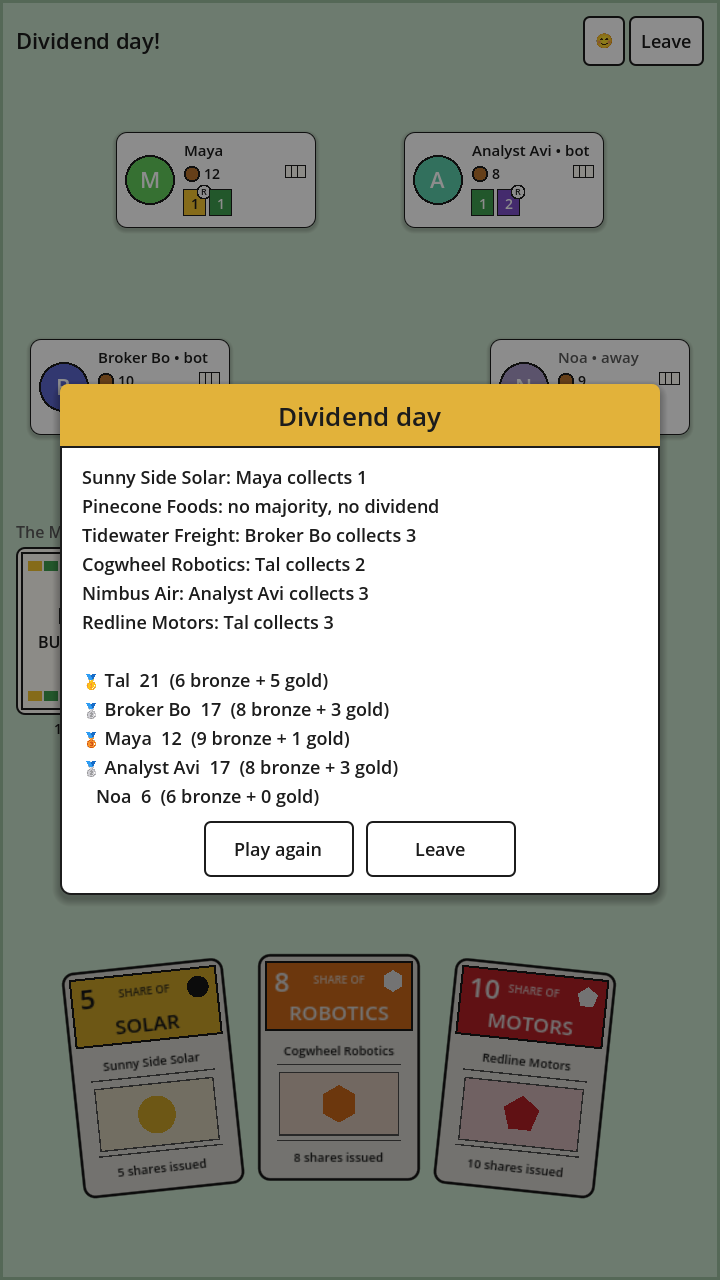
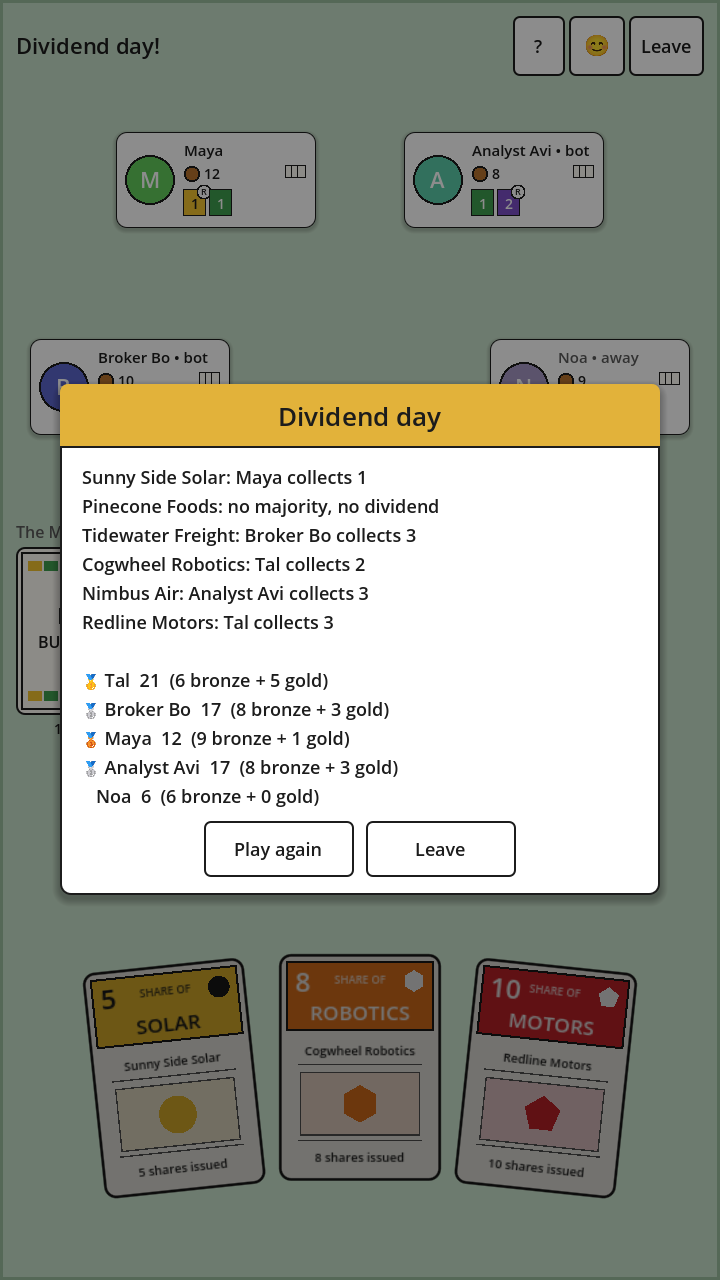
Docs: tick the cloud-doable local todo items, refresh screenshots
- TODO-local: touch targets, the 4-card fan, emoji font, seat tap target,
  lasting blocks, tutorial v2 and the timer glow are ticked with a note
  on what was done and what still wants a phone. Open items now point at
  the new code (AppInfo for the support email and privacy URL, sfx.gd for
  the sound set, the https server field, the VIBRATE permission), and the
  tutorial timing item records the e2e measurement and the right file for
  TUTORIAL_BOT_THINK_MS (state.ts).
- README status gains the Phase 2 polish paragraph.
- Screenshots re-rendered with system fonts disabled, so the emoji come
  from the bundled font; help.png added.

Claude-Session: https://claude.ai/code/session_01Qi2MPWHnrucEJc2pu61udN

Changed region(s): [[0.0917, 0.75, 0.8861, 0.9375], [0.7028, 0.0, 0.9778, 0.0625], [0.0306, 0.0312, 0.2139, 0.0625]]

diff --git a/docs/TODO-local.md b/docs/TODO-local.md
@@ -14,17 +14,17 @@ Tick items off as they are done.
 
 ## B. Play it on a phone (the Phase 1 goal)
 
-- [ ] Android: install Android SDK + export templates in Godot, create an Android export preset (portrait, min SDK 24), enable USB debugging, "Remote Deploy" from the editor to a phone. Point the host field at your computer's LAN IP (not 127.0.0.1).
+- [ ] Android: install Android SDK + export templates in Godot, create an Android export preset (portrait, min SDK 24, permission `VIBRATE` on for haptics), enable USB debugging, "Remote Deploy" from the editor to a phone. Point the server field at your computer's LAN IP (not 127.0.0.1).
 - [ ] iOS: Xcode + Apple developer account, iOS export preset, run on a device via Xcode. Same LAN host note.
-- [ ] Check touch targets: hand cards, market cards, Keep / Sell buttons. Anything under ~48 px tall gets enlarged.
-- [ ] Check the fan of 4 cards during the play step on a narrow phone (older iPhone SE width). Adjust `HAND_SCALE` in `client/scripts/ui/table.gd` if cards overflow.
-- [ ] Test app backgrounding for 30 seconds mid-game and returning: the socket should reconnect and the seat should be reclaimed. If not, add auto-rejoin in `client/scripts/net/net.gd` (`_on_socket_closed` currently only reports the disconnect).
+- [x] Check touch targets: hand cards, market cards, Keep / Sell buttons. Anything under ~48 px tall gets enlarged. *(Cloud: the smoke test now fails if any visible button on the lobby, table or help screen is under 48 px; the emote strip, top-bar buttons and seat-menu rows were enlarged. Still worth a thumb test on a phone.)*
+- [x] Check the fan of 4 cards during the play step on a narrow phone (older iPhone SE width). *(Cloud: portrait width is always 720 design px, and a 4-card hand overflowed the left edge by 17 px on every phone; fixed, rendered at iPhone SE, iPhone 13 and tablet ratios, and covered by a smoke check.)*
+- [ ] Test app backgrounding for 30 seconds mid-game and returning: the socket should reconnect and the seat should be reclaimed. Auto-rejoin exists, and `net.gd` now also checks the socket when the app resumes; this needs a real phone to confirm.
 
 ## B2. Tutorial on a device
 
 The tutorial exists (lobby: "How to play"): a solo game against two slow bots with no timer, a fixed seed so every learner sees the same opening, and a coach overlay that explains each rule the first time it comes up (welcome, take, play, coins on the Market, the regulator token, your token blocking a share, the end approaching, dividend day). Text lives in `client/scripts/ui/coach.gd`.
 
-- [ ] Run the tutorial on a phone and time it. Target: under 6 minutes to dividend day. If bots feel slow, lower `TUTORIAL_BOT_THINK_MS` in `server/src/match/handler.ts`.
+- [ ] Run the tutorial on a phone and time it. Target: under 6 minutes to dividend day. The headless e2e (learner acting instantly) takes 2.5 to 3.2 minutes, almost all of it the bots' 1.8 s think time, which leaves roughly 3 minutes for a learner's ~20 turns and ten coach cards. If bots feel slow, lower `TUTORIAL_BOT_THINK_MS` in `server/src/match/state.ts`.
 - [ ] Hand the phone to someone who has never seen the game. Note which coach card they re-read, which rule they still got wrong, and whether any card appears at a confusing moment (for example a bot's payment card popping up while they were choosing).
 - [ ] Check card readability on a small screen: body text is 19 px; the card is 620 px wide on the 720 px design width.
 - [ ] Decide whether the first "Play now" should route new players into the tutorial automatically (a "tutorial done" flag saved in `user://net.cfg`).
@@ -34,10 +34,10 @@ The tutorial exists (lobby: "How to play"): a solo game against two slow bots wi
 
 Emotes, mute, report and block exist. Tap the smiley in the top bar for the emote strip; tap an opponent's seat panel for Mute / Report / Block.
 
-- [ ] Emoji emotes render as placeholder glyphs with Godot's fallback font (see `docs/screenshots/emotes.png`). Either bundle an emoji font (Noto Color Emoji, add it as a fallback in the project theme) or replace the six emoji with small drawn icons.
-- [ ] Check the seat tap target on a phone: the seat panel is 200x96 at design size; taps near the timer arc must still open the menu.
-- [ ] Confirm blocked players' emotes stay hidden after the app restarts (mute is in-memory; block is server-side via Nakama friends). If not, persist the mute list in `user://net.cfg`.
-- [ ] Apple guideline 1.2 needs published contact info: add a support email and a privacy policy link to the lobby (a "Help" button) before submission.
+- [x] Emoji emotes render as placeholder glyphs with Godot's fallback font. *(Cloud: a 28 KB subset of Noto Color Emoji ships in `client/fonts/` as the UI font's fallback; emoji emotes are drawn larger. Verified with system fonts disabled, where they used to show as hex boxes.)*
+- [x] Check the seat tap target on a phone: the seat panel is 200x96 at design size; taps near the timer arc must still open the menu. *(Cloud: the smoke test taps the outer edge of the timer arc through the viewport and expects the seat menu.)*
+- [x] Confirm blocked players' emotes stay hidden after the app restarts. *(Cloud: they did not; mutes are now saved in `user://net.cfg` and blocks are reloaded from the Nakama friends list on connect.)*
+- [ ] Apple guideline 1.2 needs published contact info. The lobby's "Rules and help" screen (also "?" at the table) has Email support and Privacy policy buttons, disabled until you fill `SUPPORT_EMAIL` and `PRIVACY_URL` in `client/scripts/game/app_info.gd`.
 - [ ] Review the 14 preset emotes and phrases with someone outside the project for tone; all-ages means no sarcastic or taunting phrases.
 - [ ] Decide the moderation routine: reports land in the Nakama console (storage collection `reports`); pick who checks it and how often (the store expectation is action within 24 hours).
 
@@ -45,11 +45,11 @@ Emotes, mute, report and block exist. Tap the smiley in the top bar for the emot
 
 - [ ] Play two games on a phone and confirm the profile card updates (level, XP bar, wins) and the daily bonus button behaves across a UTC midnight.
 - [ ] Decide whether season points should also reward last place with 1 point (currently 0) after seeing a few real standings.
-- [ ] Verify the season leaderboard reset on the 1st of a month (Nakama cron `0 0 1 * *`).
+- [ ] Verify the season leaderboard reset on the 1st of a month (Nakama cron `0 0 1 * *`). *(Cloud: the Node e2e now checks that every season record expires at 00:00 UTC on the 1st of next month, which is how Nakama applies the reset. Glance at the standings on the 1st to see it happen.)*
 
 ## C. Playtest with people (answers the key Phase 1 question)
 
-- [ ] Deploy the server to a VPS following `docs/deploy.md` so friends can join from anywhere. Put the domain in the lobby host field with scheme https (add a scheme toggle to the lobby if needed).
+- [ ] Deploy the server to a VPS following `docs/deploy.md` so friends can join from anywhere. Type `https://your.domain` in the lobby's server field (it accepts a bare host, `host:port`, or an http/https URL).
 - [ ] Run 3 sessions of a 5-player game with friends, 30-second timer. Record: game length, whether the first game was understandable without a tutorial, which rule confused people, whether the timer felt rushed or slow, whether anyone lost track of who holds a regulator token.
 - [ ] Decide the default step timer (20 / 30 / 45 s) from those sessions.
 - [ ] Note which animations were missed (players didn't notice a token moving, a coin payment, a market take). These become Phase 2 juice work.
@@ -62,7 +62,7 @@ Emotes, mute, report and block exist. Tap the smiley in the top bar for the emot
 
 - [ ] Apple Developer Program and Google Play Console accounts.
 - [ ] App identifiers: pick a bundle id (for example `com.<you>.bigbusiness`) and set it in both export presets.
-- [ ] Privacy policy URL and support email (required by both stores, and by the report/contact rule for all-ages apps).
+- [ ] Privacy policy URL and support email (required by both stores, and by the report/contact rule for all-ages apps). Put them in `client/scripts/game/app_info.gd`; the help screen shows them.
 - [ ] Age rating questionnaires: no simulated gambling, no UGC yet, no ads. Aim for 4+ / Everyone.
 - [ ] Sign in with Apple and Google Sign-In configuration in Nakama (`local.yml` social keys) so accounts survive reinstalls. Device-id guest auth stays for first launch.
 
@@ -70,12 +70,12 @@ Emotes, mute, report and block exist. Tap the smiley in the top bar for the emot
 
 - [ ] Six company illustrations for the card art window (see `docs/design/theme.md`), a card back with the BB monogram, table background, coin sprites (bronze and gold), regulator token icon.
 - [ ] App icon and store screenshots (the cloud session's placeholder renders are in `docs/screenshots/`).
-- [ ] Sound set: card deal, card place, coin slide, coin flip to gold, turn chime, dividend fanfare. Haptics on card place and on your turn.
+- [ ] Sound set: card deal, card place, coin slide, coin flip to gold, turn chime, timer tick, dividend fanfare. Placeholders are synthesised in `client/scripts/ui/sfx.gd` and already wired to the table; replace them one name at a time. Haptics on card place, on your turn and in the last two seconds are done (sound and vibration toggles are on the help screen).
 
 ## G. Deferred engineering (Phase 2, listed so nothing is lost)
 
-- [ ] Tutorial v2: forced choices on the first two turns (only the coached action enabled) and a replayable "rules reference" screen.
-- [ ] Turn-timer sound and screen glow under 5 seconds.
+- [x] Tutorial v2: forced choices on the first two turns (only the coached action enabled) and a replayable "rules reference" screen. *(Cloud: keep on turn one; take the Market share with coins, then sell, on turn two; new "Selling to the Market" coach card. Rules reference in the help screen.)*
+- [x] Turn-timer sound and screen glow under 5 seconds. *(Cloud: red pulsing rim and a tick each second on your own step.)*
 - [ ] Friends list and invites (Nakama friends API is already used for block); push notification "your turn" via FCM.
 - [ ] Daily and weekly quests feeding a free cosmetic track (daily bonus and the season board exist).
 - [ ] Curated card skins sold a la carte through RevenueCat (see `docs/research/03-engagement-monetization.md`).

diff --git a/README.md b/README.md
@@ -13,7 +13,7 @@ The mechanics are a re-themed implementation of a well-known share-collecting ca
 | `docs/design/theme.md` | The six companies, vocabulary, card layout, table look |
 | `docs/design/rules-spec.md` | Authoritative rules, including every ruling the engine implements |
 | `server/` | Nakama runtime: pure TypeScript rules engine with tests, authoritative match handler, room-code RPCs, Docker Compose for local play |
-| `client/` | Godot 4.6 project: Nakama connection, lobby, table, headless smoke, screenshot and end-to-end tests |
+| `client/` | Godot 4.6 project: Nakama connection, lobby, table, help screen, synthesised sounds, headless smoke, screenshot and end-to-end tests |
 | `docs/deploy.md` | Single-VPS deployment with Docker Compose and automatic TLS |
 | `docs/conventions.md` | Dependency-graph rules enforced by `tools/graph_check.py` (pre-push hook and CI) |
 | `docs/TODO-local.md` | Work that needs a local machine: phone builds, playtests, store accounts, art |
@@ -36,7 +36,7 @@ godot --headless --path client --import
 godot --headless --path client --script res://tests/smoke.gd
 ```
 
-In the app, keep the host as `127.0.0.1`, press Connect, then Play now. Open two or more instances to fill a table, or let bots fill the empty seats after the lobby wait.
+In the app, keep the server as `127.0.0.1` (or type `https://your.domain` for a deployed server), press Connect, then Play now. Open two or more instances to fill a table, or let bots fill the empty seats after the lobby wait.
 
 ## Status
 
@@ -47,6 +47,8 @@ Tutorial: "How to play" in the lobby starts a solo game against two slow bots wi
 Phase 1 (playable core), cloud-doable parts complete: live end-to-end tests against Nakama (Node client and the real Godot client), a designed portrait table with seat oval, hand fan, contextual actions, event animations and a dividend-day sequence, production deployment files, and CI that runs the whole stack. Placeholder renders are in `docs/screenshots/`.
 
 Phase 2 (soft-launch features), cloud-doable parts complete: preset emotes and phrases with mute, report and block (no free-text chat: all-ages decision), XP and levels awarded at game end, a daily bonus with a streak, a monthly season leaderboard for games with other people, and automatic reconnect with seat rejoin. The look is a title-deed theme on a board-green table.
+
+Phase 2 polish, cloud-doable parts: a rules and help screen (lobby and "?" at the table) with support and privacy links, tutorial v2 (the first two turns only allow the coached move), a bundled emoji font so emotes render on every phone, mutes and blocks that survive restarts, 48 px touch targets enforced by the smoke test, a 4-card hand that stays on screen, placeholder sounds and haptics, a red timer glow under five seconds, reconnect on app resume, and a server field that accepts `https://` addresses.
 
 Code conventions (acyclic, layered dependency graph checked with graphify on every push and in CI) are in `docs/conventions.md`.
 
